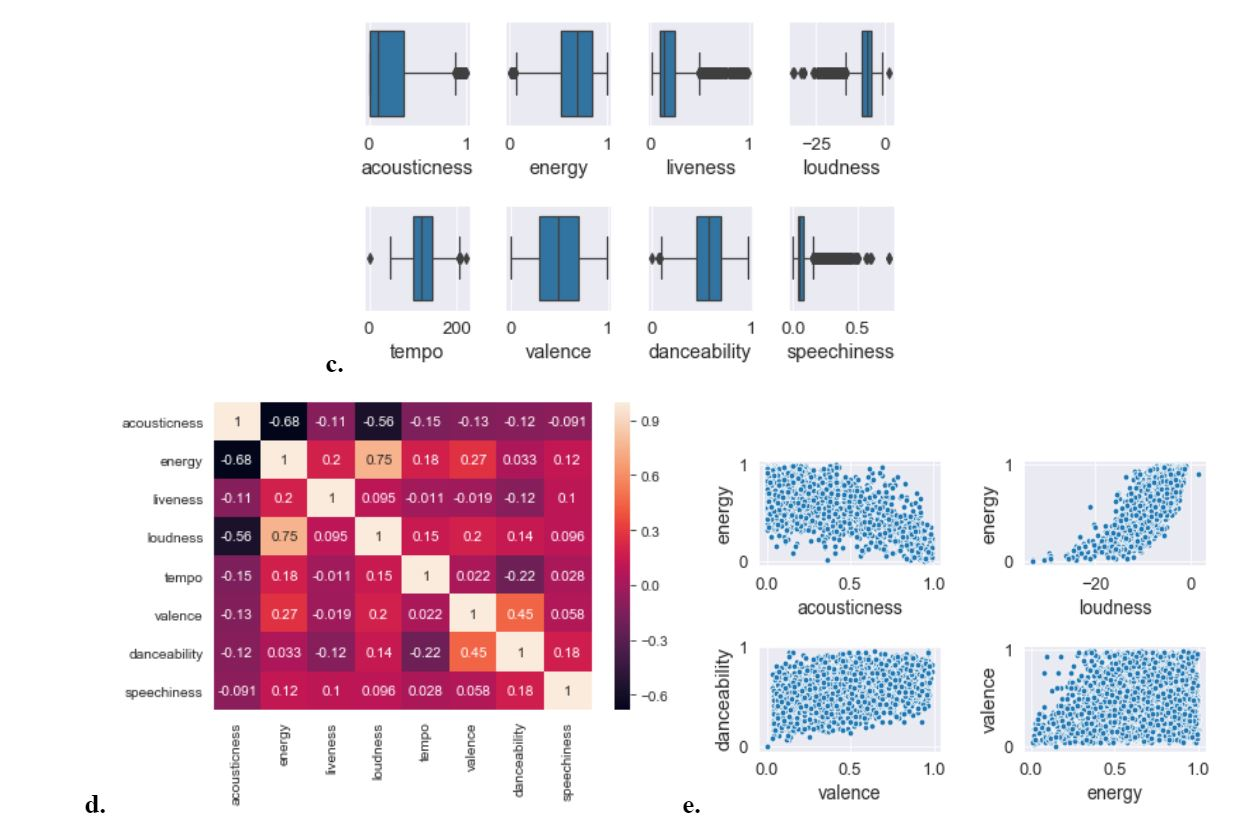
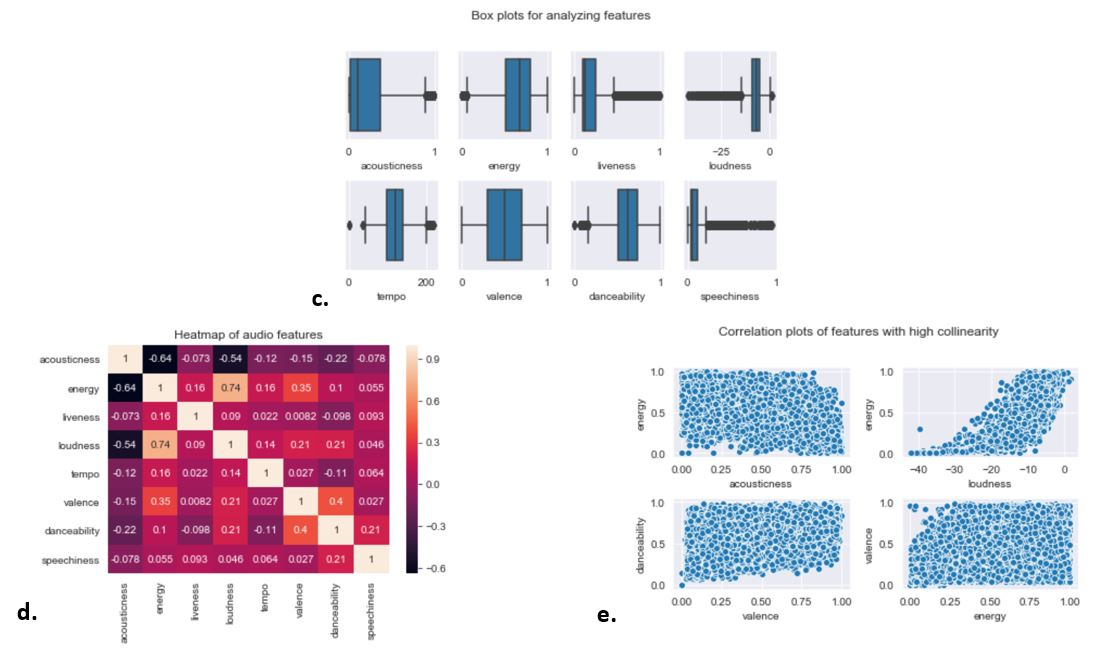
Changing the plots

diff --git a/docs/_includes/introduction.html b/docs/_includes/introduction.html
@@ -10,10 +10,12 @@
 
                     While our models are trained with all the features, for the purposes of this project, we chose to place emphasis on the danceability, energy, valence, and specchiness features for persoanlizing the recommendations, considering that users would choose to have variability in aspects such as tempo.</p>
 
-                    <p><b>TODO: Interactive Quiz. We wanted to focus on UI in addition to the models!!</b></p>
+                    <p><b>From the research we performed for a literature review, we identified that user input is critical for generating rich and relevant recommendations. Therefore, as part of the scope of this project, we wanted to focus on the user interface of our system in addition to the models as a prototype of a real-world application.</b></p>
                 </div>
                     <p>Technologies utilized as part of the project:</p>
                     <b>Data Formats</b>
+                    <p>Size of data that was analyzed: TODO! Due to the extreme size of each of the .csv files, we chose to analyze one .csv file (approximately TODO rows from TODO.csv) so as to not overload our computers. We tried using different file formats, such as Parquet, for efficiently visualizing the entire .csv files, although this was leading to an extremely large run time for the visualizations as well.
+                    </p>
                     <ul>
                         <li>Parquet</li>
                         <li>CSV</li>
@@ -72,35 +74,38 @@
             </div>
             <div class="row">
             <h4 class="subheading">Data Exploration</h4>
-            <p class="text-muted">Due to the extreme size of each of the .csv files, we chose to analyze one .csv file (approximately 3000 rows from songs999.csv) so as to not overload our computers. We tried using different file formats, such as Parquet, for efficiently visualizing the entire .csv files, although this was leading to an extremely large run time for the visualizations as well.</p>
+            <p>We present the results we obtained after dropping NAN values from the dataframe.</p>
 
-            <b>Visualizations of data:</b><p>Number of unique artists in the list: 1330</p>
+            <p>For the numerical variables, we noticed that some of the variables have a different order of magnitude compared to the other features. For example, the "Tempo" variable has values ranging from 0 to 220, the "Loudness" variable had values ranging from -42 to approximately 2, and the "danceability" variable has values ranging from 0 to approximately 1. This suggests that scaling the dataset would be useful to account for the features with varying orders of magnitude - which we will consider later.</p>
+
+            <b>Visualizations of data:</b>
+
+
+            First, let's look at the number of unique artists in the list (there are 8,303). Below we see the top ten artist entries in the datafile. 
+
             <center><img src="img/viz_1.JPG" alt="Number of unique artists in the list"></center>
             
-            <p><b>a.</b> Top ten artist entries in the datafile. <b>b.</b> Frequency distribution: there is a large skew to the data set, with a small number of artists having a large presence, and to the overly large majority being ‘one-trick-ponies’, having only a single hit song in the database.</p>
+            <p><b>a.</b> Top ten artist entries in the datafile. <b>b.</b> We see the frequency distribution of the artists: there is a large skew to the data set, with a small number of artists having a large presence, and to the overly large majority being ‘one-trick-ponies’, having only a single hit song in the database. One hypothesis we can make from these insights is that users would be more open to listening to songs from other artists that aren't (yet) part of their playlist, rather than tracks from the same artists the users listen to, given that most artists have a small presence.</p>
+
+
+            <p>Now, let's dive deeper into the data. Let's look at a boxplot overview of the data of the songs for 8 features (accousticness, energy, liveness, loudness, tempo, valence, danceability, and speechiness), on the basis of which we will try to categorize songs and predict choice.</p>
 
             <center><img src="img/viz_2.JPG" alt="Heatmaps, boxplots, and correlation plots"></center>
 
-            <p><b>c.</b> A boxplot overview of the data of the songs for 8 features (accousticness, energy, liveness, loudness, tempo, valence, danceability, and speechiness), on the basis of which we will try to categorize songs and predict choice. There appears to be some skewing in data for liveness, loudness and speechiness. Liveness might be a multimodal distribution of liveness of regular songs, and a secondary group of actual songs for live performances. For speechiness this might be an effect of music type (e.g. rock/balads versus rap songs). Further analysis is required to better describe the data. <b>d.</b> A correlation matrix for the features to see if we have any issues with overlapping features or risk multicollinearity in further analysis. <b>e.</b> Overall there seems to be a negative correlation for accousticness and energy (e.g. acoustic songs are more often low-energy), a positive relationship between loudness and energy (more energetic songs are louder). Valance and danceability are positively correlated, as are energy and valance.</p>
+            <p><b>c.</b> There appears to be some skewing in data for liveness, loudness and speechiness. Liveness might be a multimodal distribution of liveness of regular songs, and a secondary group of actual songs for live performances. For speechiness this might be an effect of music type (e.g. rock/balads versus rap songs). TODO! <b>d.</b> Next, we inspect a correlation matrix for the features to see if we have any issues with overlapping features or risk multicollinearity in further analysis. We only see particularly high correlations between acousticness and energy and acousticness and loudnness, although in other cases the dataset doesn't demonstrate high multicollinearity. Let's look in this detail. <b>e.</b> We utilized the correlation plots for four features in particular. Overall there seems to be a negative correlation for accousticness and energy (e.g. acoustic songs are more often low-energy), a positive relationship between loudness and energy (more energetic songs are louder). Valance and danceability are positively correlated, as are energy and valence. Since we see interesting relationships between these variables that may be encoding musical sensabilities, we chose to keep all the features in the dataset and see how they inform our analysis. </p>
 
             </div>
             <div class="row">
-            <h4 class="subheading">Clustering and PCA (TODO: Need to Update with Newest Results)</h4>
-            <p class="text-muted">Below, we present our results for k-means clustering</p>
+            <h4 class="subheading">Unsupervised Learning: Clustering and PCA</h4>
+            <p class="text-muted">Below, we present our results for k-means clustering, after scaling the dataset using Standard Scaler and training and fitting the K-means model on the data</p>
 
-            <p><b>f.</b> We tried clustering the data using K-means with 3 clusters - below, we demonstrate the distribution of the data points across the 3 clusters - we see majority of the data points have been assigned to Cluster 0. <b>g.</b> Additionally, we wanted to analyze the distribution of values with respect to the K-means clusters. Below, we demonstrate the results for a few features. We can see that Cluster 0 contains data points with low acousticness, high energy, high valence, and high danceability. Cluster 1 seems to contain data points that have low acousticness, high energy, and low valence. Cluster 2 contains data points with high acousticness, low energy, and low valence.</p>
+            <p><b>f.</b> We clustered the data using K-means with 3 clusters - below, we demonstrate the distribution of the data points across the 3 clusters - we see majority of the data points have been assigned to Cluster 0. <b>g.</b> It is challenging to interpret the results of unsupervised learning algorithms, given there are no labels. We can use one approach where we analyze the distribution of values with respect to the K-means clusters. Therefore, we found analyzing the distribution of values with respect to the K-means clusters would be helpful. We see the distributions for the clusters seem to overlap a lot, but we can make out a few trends. For example, it seems that Cluster 0 contains data points with low acousticness, high energy, high valence, and high danceability. Cluster 1 seems to contain data points that have high acousticness, low energy, and low valence. Cluster 2 contains data points with low acousticness, high energy, and medium valence. For variables such as "speechiness", it is harder to identify the trends, although we can generally say that Cluster 0 contains data points with relatively higher speechiness, Cluster 1 contains data points with low speechiness, and Cluster 2 contains data points with medium speechiness.</p>
 
             <center><img src="img/viz_3.JPG" alt="K-means clustering results"></center>
 
-            <p>Sample songs belonging to each cluster matching our observations:</p>
+            <p>Sample songs belonging to each cluster matching our observations (TODO):</p>
 
             <center><img src="img/viz_4.JPG" alt="Tracks belonging to K-means clusters"></center>
-
-            <p><b>PCA:</b> We scaled the numerical features in the dataset using the StandardScaler() sklearn function, and then applied sklearn’s PCA transformer on the dataset. <b>i.</b> Below is a biplot of the first two principal components. The color corresponds to binned acousticness and energy variables to analyze the distribution of the values - the bins were made using the median of the variables.</p>
-
-            <center><img src="img/viz_5.JPG" alt="PCA results"></center>
-
-            <p>We plotted the cumulative explained variability (not shown here), and think all principal components are beneficial for explaining the most variability in the data. <b>k.</b> We tried deploying the K-means algorithm on the PCA-transformed data and obtained the results shown above. While it is hard to interpret the clusters on the PCA-transformed data in relation to the original data, we do observe a clear separation of the data into separate clusters. We plan to evaluate the performance of our models (e.g. models targeted at predicting the position of a track in a playlist) on the original and PCA-transformed data, to see if we can get optimal performance using PCA.</p>
 
             </div>
             </div>

diff --git a/docs/_includes/trajectory.html b/docs/_includes/trajectory.html
@@ -78,4 +78,12 @@
                 </div>
             </div>
         </div>
+        <div class="container">
+            <div class="row">
+                <div class="col-lg-12 text-center">
+                    <h2 class="section-heading">Results and Demo</h2>
+                </div>
+
+        </div>
+        </div>
     </section>

diff --git a/docs/_includes/modeling_approach.html b/docs/_includes/modeling_approach.html
@@ -53,12 +53,4 @@
             </div>
 
         </div>
-        <div class="container">
-            <div class="row">
-                <div class="col-lg-12 text-center">
-                    <h2 class="section-heading">Results and Demo</h2>
-                </div>
-
-        </div>
-        </div>
     </section>
